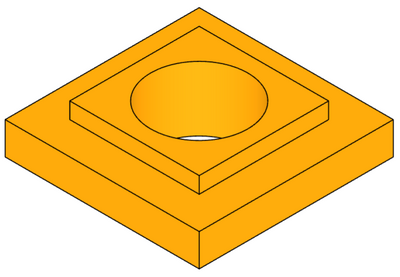
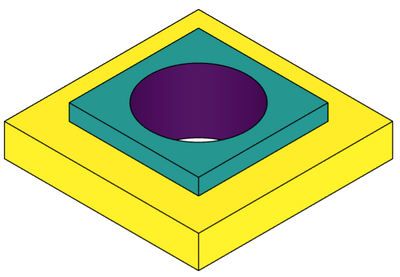
update readme and images

diff --git a/README.md b/README.md
@@ -38,7 +38,7 @@ from bumo import Builder
 
 obj = Builder(_.Box(12, 12, 2))
 
-show_object(obj())
+show_object(obj(), clear=True)
 ```
 
 ![](./images/box.png)
@@ -64,18 +64,6 @@ obj.add(obj2)
 obj.sub(_.Cylinder(3, 4))
 ```
 
-### Adding colors
-
-On each mutation you can pass a `color`, because coloring object faces is useful and funny:
-
-```py
-obj = Builder(_.Box(12, 12, 2), "orange")
-obj.add(_.Box(8, 8, 4), "green")
-obj.sub(_.Cylinder(3, 4), "violet")
-```
-
-![](./images/colors.png)
-
 ### Listing mutations
 
 You can print the list of mutations and their properties:
@@ -90,11 +78,11 @@ The previous example will produce:
 ╒═══════╤═══════════╤═════════╤═════════╕
 │   Idx │ Id        │ Type    │ Color   │
 ╞═══════╪═══════════╪═════════╪═════════╡
-│     0 │ Builder-0 │ Builder │ orange  │
+│     0 │ Builder-0 │ Builder │ fde725  │
 ├───────┼───────────┼─────────┼─────────┤
-│     1 │ add-1     │ add     │ green   │
+│     1 │ add-1     │ add     │ 21918c  │
 ├───────┼───────────┼─────────┼─────────┤
-│     2 │ sub-2     │ sub     │ violet  │
+│     2 │ sub-2     │ sub     │ 440154  │
 ╘═══════╧═══════════╧═════════╧═════════╛
 ```
 
@@ -103,17 +91,59 @@ The previous example will produce:
 You can move objects with `move()`, all colors will be preserved. Note that you can still use the Build123d `*` operator before passing the object to the builder.
 
 ```py
-obj = Builder(_.Box(12, 12, 2), "orange")
-obj.add(_.Box(8, 8, 4), "green")
+obj = Builder(_.Box(12, 12, 2))
+obj.add(_.Box(8, 8, 4))
 obj.move(_.Location([-5, 2, 0]))
-obj.sub(_.Rotation(25, 25, 0) * _.Cylinder(2.5, 10), "violet")
+obj.sub(_.Rotation(25, 25, 0) * _.Cylinder(2.5, 10))
 ```
 
 ![](./images/move.png)
 
+### Reusing mutations
+
+Instead of returning a copy of the object, mutations return a `Mutation` object that can be used to retrieve the altered faces and edges. Mutations can also be accessed by querrying a builder index (ie. `obj[n]`). This is useful with fillets and chamfers:
+
+```py
+obj = Builder(_.Box(12, 12, 2))
+obj.add(_.Box(8, 8, 4))
+obj.fillet(obj[-1].edges_added(), 0.4)
+hole = obj.sub(_.Cylinder(3, 4))
+obj.chamfer(hole.edges_added()[0], 0.3)
+```
+
+![](./images/chamfers_and_fillets.png)
+
+### Changing colors
+
+On each mutation you can pass a specific color instead of the auto-generated-one:
+
+```py
+obj = Builder(_.Box(12, 12, 2), "orange")
+obj.add(_.Box(8, 8, 4), "green")
+obj.sub(_.Cylinder(3, 4), "violet")
+```
+
+![](./images/colors.png)
+
+### Using the debug mode
+
+You can turn one or several mutations in debug mode, so all the other faces will be translucent. Either by passing a debug attribute to mutations, or passing faces (even removed ones) to the debug method:
+
+```py
+obj = Builder(_.Box(12, 12, 2))
+obj.add(_.Box(8, 8, 4))
+obj.fillet(obj[-1].edges_added(), 0.4)
+hole = obj.sub(_.Cylinder(3, 4))
+obj.chamfer(hole.edges_added()[0], 0.3, debug=True)
+obj.debug(obj[2].faces_altered()[0], "red")
+# obj.debug(hole.faces_removed(), "red")
+```
+
+![](./images/debug.png)
+
 ### Alternative syntax
 
-Alternatively you can use the operators `+=`, `-=`, `&=`, `*=` to add mutations (but passing a color or debug mode will not be possible):
+Alternatively you can use the operators `+=`, `-=`, `&=`, `*=` to add mutations. But beware that passing a color or debug mode will no longer be possible, neither storing the mutation to a variable (you can still get them with the `obj[n]` syntax):
 
 ```py
 obj = Builder(_.Box(12, 12, 2))
@@ -125,36 +155,6 @@ obj *= _.Rotation(90) # move
 
 Note that their counterpart `+`, `-`, `&`, `*` are not allowed.
 
-### Reusing mutations
-
-Instead of returning a copy of the object, mutations return a `Mutation` object that can be used to retrieve the altered faces and edges. Mutations can also be accessed by querrying a builder index (ie. `obj[n]`). This is useful with fillets and chamfers:
-
-```py
-obj = Builder(_.Box(12, 12, 2), "orange")
-obj.add(_.Box(8, 8, 4), "green")
-obj.fillet(obj[-1].edges_added(), 0.4, color="yellow")
-hole = obj.sub(_.Cylinder(3, 4), "violet")
-obj.chamfer(hole.edges_added()[0], 0.3, color="blue")
-```
-
-![](./images/chamfers_and_fillets.png)
-
-### Using the debug mode
-
-You can turn one or several mutations in debug mode, so all the other faces will be translucent. Either by passing a debug attribute to mutations, or passing faces (even removed ones) to the debug method:
-
-```py
-obj = Builder(_.Box(12, 12, 2), "orange")
-obj.add(_.Box(8, 8, 4), "green")
-obj.fillet(obj[-1].edges_added(), 0.4, color="yellow")
-hole = obj.sub(_.Cylinder(3, 4), "violet")
-obj.chamfer(hole.edges_added()[0], 0.3, color="blue", debug=True)
-obj.debug(obj[2].faces_altered()[0], "red")
-# obj.debug(hole.faces_removed(), "red")
-```
-
-![](./images/debug.png)
-
 ### Configuring the builder
 
 You can set builder attributes if necessary:
@@ -162,4 +162,6 @@ You can set builder attributes if necessary:
 ```py
 Builder.default_color = "grey"
 Builder.debug_alpha = 0.5
+Builder.autocolor = False
+Builder.color_palette = ColorPalette.INFERNO
 ```
